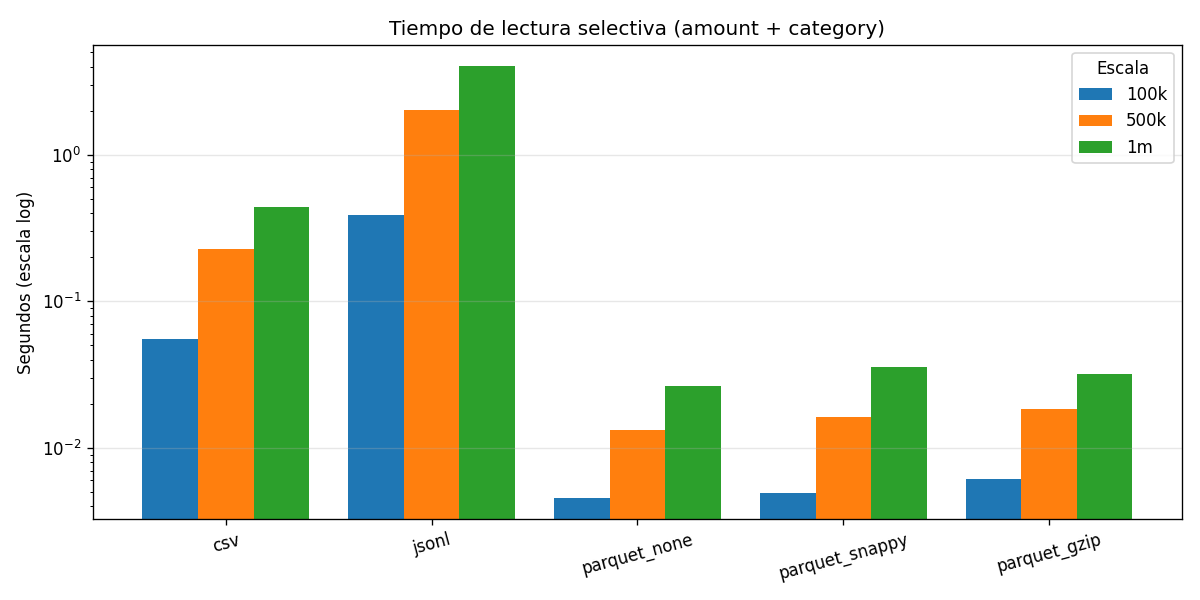
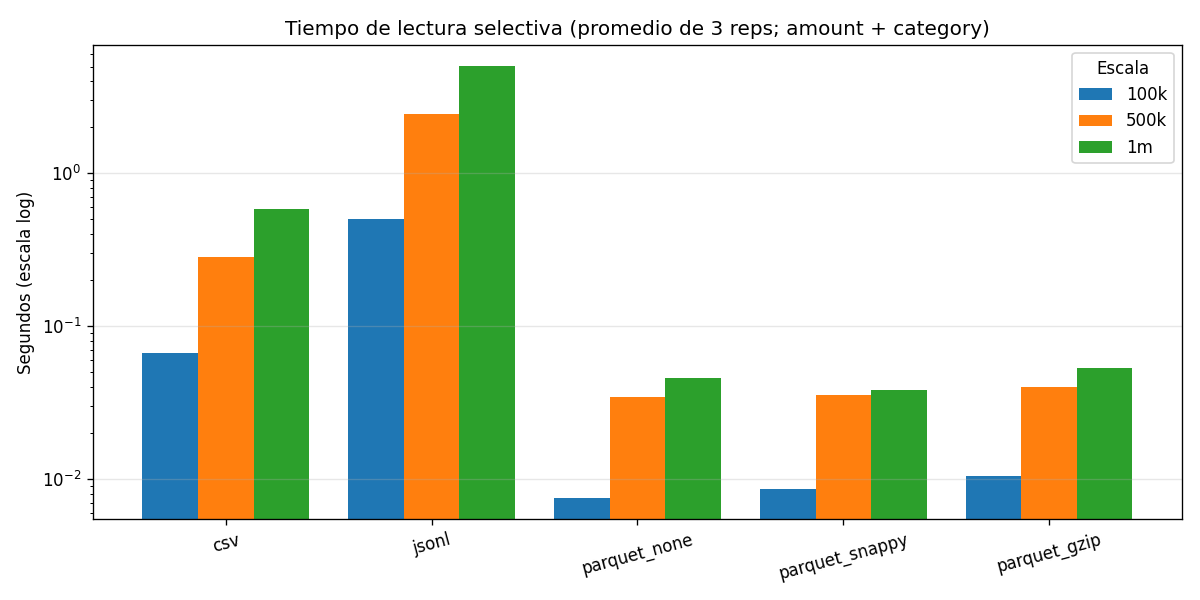
update charts with new fields and memory plots

diff --git a/ejercicio-01-formatos/make_charts.py b/ejercicio-01-formatos/make_charts.py
@@ -55,17 +55,17 @@ def main() -> None:
     print("Generando graficas...")
     grouped_bar(
         data,
-        title="Tiempo de lectura completa por formato",
+        title="Tiempo de lectura completa (promedio de 3 reps)",
         ylabel="Segundos (escala log)",
-        value_fn=lambda r: r["read_full_seconds"],
+        value_fn=lambda r: r["read_full_seconds_mean"],
         filename="read_full_time.png",
         log=True,
     )
     grouped_bar(
         data,
-        title="Tiempo de lectura selectiva (amount + category)",
+        title="Tiempo de lectura selectiva (promedio de 3 reps; amount + category)",
         ylabel="Segundos (escala log)",
-        value_fn=lambda r: r["read_selective_seconds"],
+        value_fn=lambda r: r["read_selective_seconds_mean"],
         filename="read_selective_time.png",
         log=True,
     )
@@ -78,10 +78,25 @@ def main() -> None:
     )
     grouped_bar(
         data,
-        title="Tiempo de escritura (promedio de 3 repeticiones)",
+        title="Tiempo de escritura (promedio de 3 reps)",
         ylabel="Segundos (escala log)",
         value_fn=lambda r: r["write_seconds_mean"],
         filename="write_time.png",
+        log=True,
+    )
+    grouped_bar(
+        data,
+        title="Delta de RSS durante lectura completa (psutil)",
+        ylabel="Megabytes",
+        value_fn=lambda r: r["read_rss_delta_bytes"] / 1e6,
+        filename="read_rss_delta.png",
+    )
+    grouped_bar(
+        data,
+        title="Pico de heap de Python durante lectura (tracemalloc)",
+        ylabel="Megabytes (escala log)",
+        value_fn=lambda r: max(r["read_peak_memory_tracemalloc_bytes"] / 1e6, 0.01),
+        filename="read_tracemalloc_peak.png",
         log=True,
     )
 
